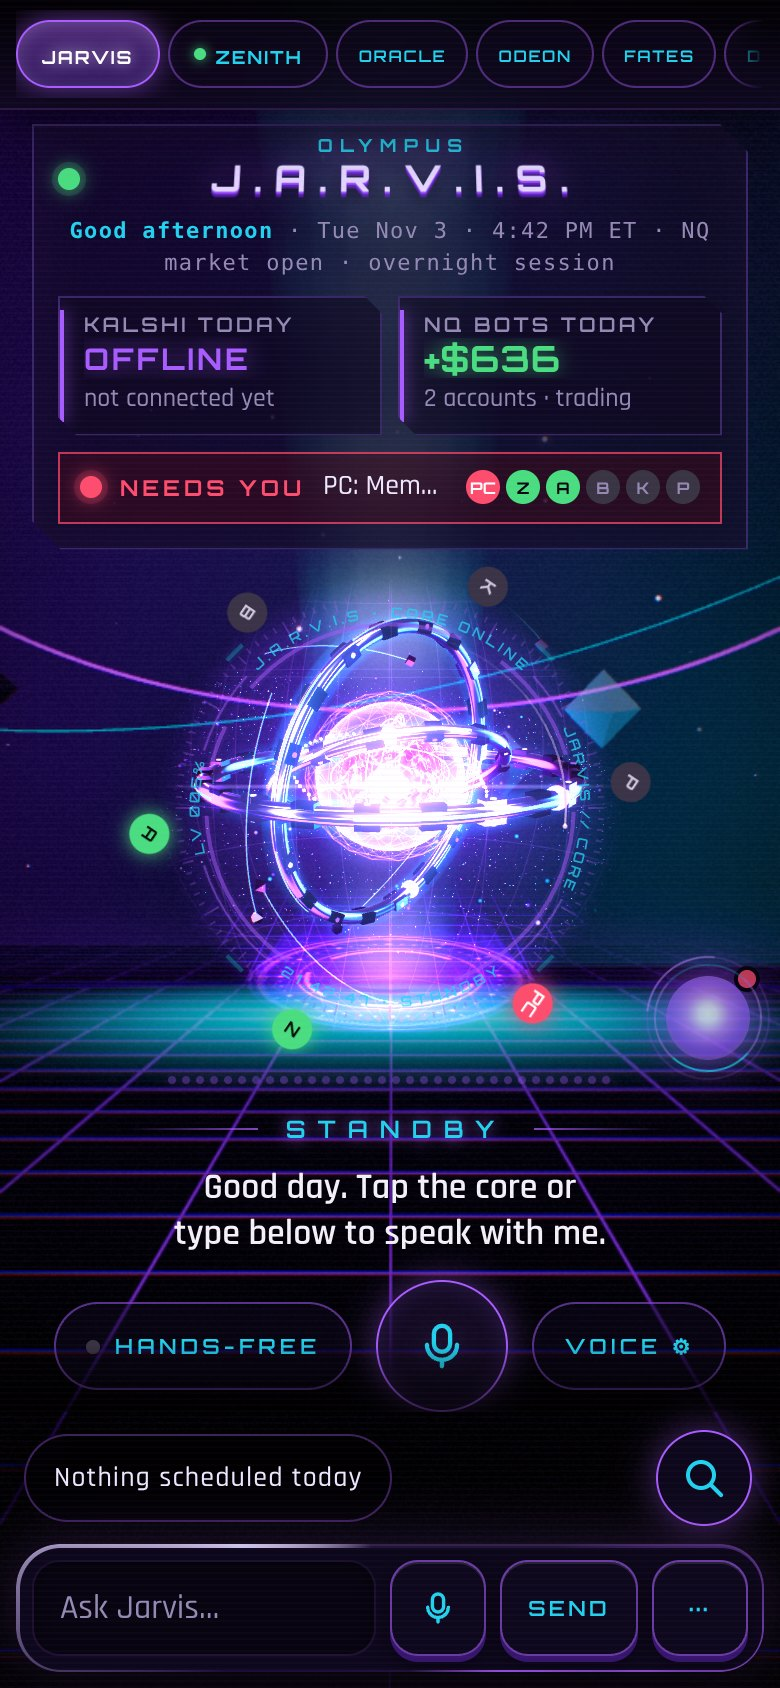
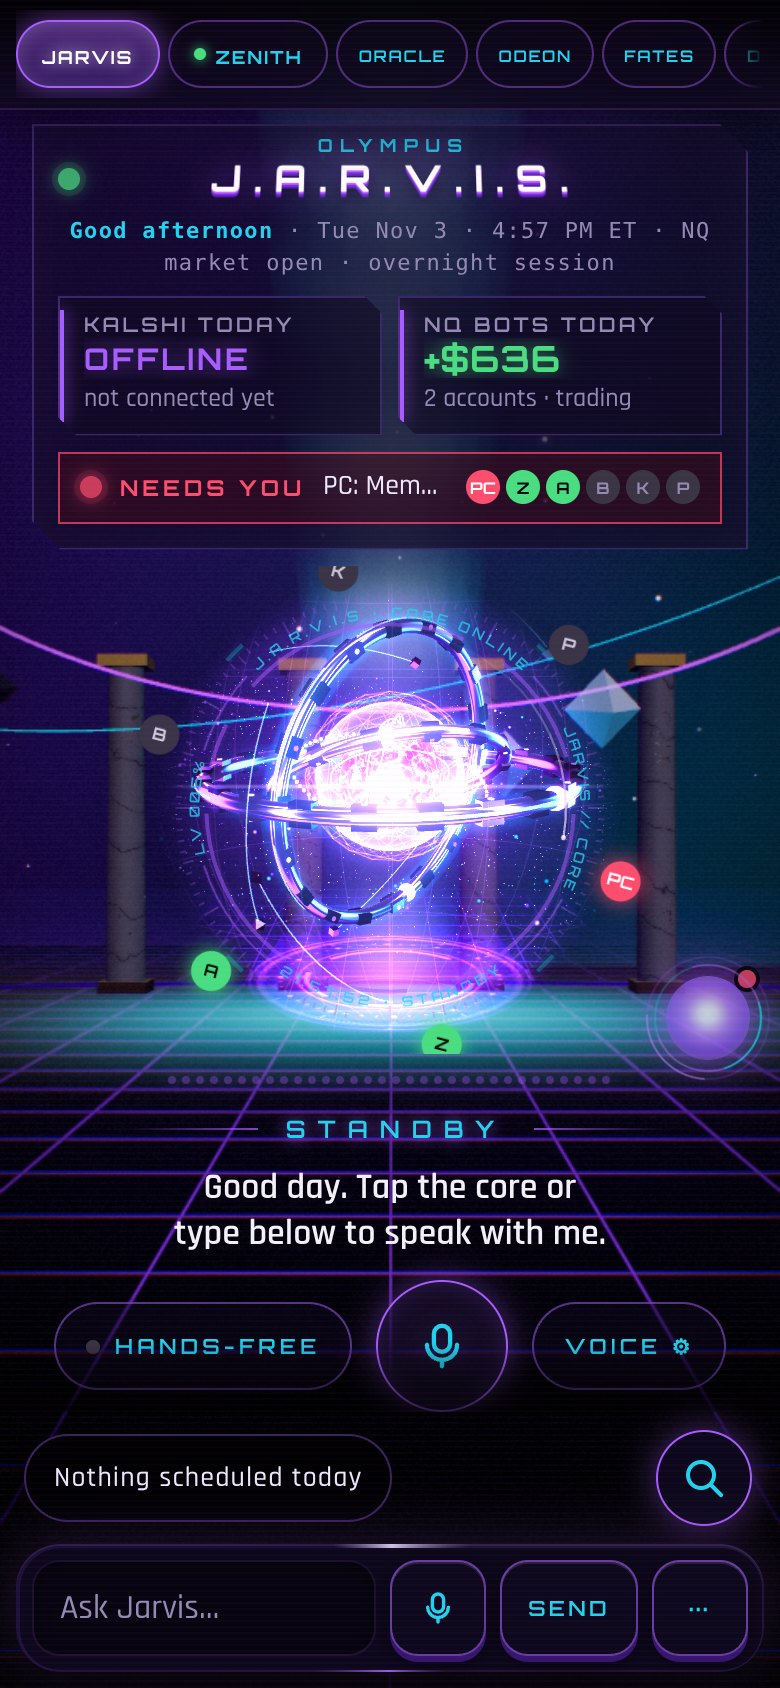
Backdrop: the temple of OLYMPUS on the horizon (marble columns, gold capitals), a violet haze and a key light
Claude-Session: https://claude.ai/code/session_0157vZy9yroQd2RyVxNCbDwo

diff --git a/tools/web_public/jarvis/backdrop.js b/tools/web_public/jarvis/backdrop.js
@@ -1,5 +1,6 @@
 // Jarvis home backdrop (jarvis/backdrop.js, 2026-11-03; docs/OLYMPUS_RENDER.md): the 3D space behind the home screen, on the
-// OLYMPUS render core. A deep nebula and a twinkling starfield, a glossy obsidian floor that reflects the sky with a neon
+// OLYMPUS render core. A deep nebula and a twinkling starfield, the temple of OLYMPUS on the horizon (marble columns, gold
+// capitals, fading into the fog), a glossy obsidian floor that reflects the sky with a neon
 // grid fading into fog, a light shaft where the core floats, two slow halo rings in the sky and drifting glass shards that
 // catch the light. It replaces the flat 2D layers of .bgfx (stars canvas, SVG globe, CSS floor) once its first frame is drawn;
 // without WebGL or the render core, those stay exactly as they were.
@@ -39,7 +40,7 @@ async function mount() {
 
   const scene = new T.Scene(), camera = new T.PerspectiveCamera(58, 1, 0.1, 400);
   camera.position.set(0, 1.5, 10); camera.lookAt(0, 1.6, 0);
-  const fog = new T.FogExp2(0x05040c, 0.034); scene.fog = fog;
+  const fog = new T.FogExp2(0x0b0a24, 0.03); scene.fog = fog;      // a deep violet haze: far things fade into colour, not black
   const K = colours();
   const rc = RC.createRenderer({ canvas: probe, scene, camera, quality: level(), env: 'night', tint: K.c, maxDpr: 1.25, adapt: false, exposure: 0.8,
     theme: null, bloom: { strength: 0.75, radius: 0.7, threshold: 0.82 }, grade: { vignette: 0.42, grain: 0.035, aberration: 0.003 } });
@@ -74,6 +75,20 @@ async function mount() {
   ringB.position.set(0, 7.5, -14); ringB.rotation.set(1.4, 0.2, -0.3); scene.add(ringB);
   const horizon = new T.Mesh(new T.TorusGeometry(40, 0.08, 8, 320), M.neon({ color: K.c2, intensity: 2.5, fog: true }));
   horizon.rotation.x = Math.PI / 2; horizon.position.y = -2.55; scene.add(horizon);
+
+  // the temple of OLYMPUS on the horizon: an arc of polished marble columns with gold capitals, fading into the fog
+  const N = 14, colGeo = new T.CylinderGeometry(0.55, 0.62, 10, 20, 1), capGeo = new T.BoxGeometry(1.5, 0.35, 1.5);
+  const columns = new T.InstancedMesh(colGeo, M.marble({ color: '#e8e4ee', vein: '#5b5470', gold: true, scale: 0.6 }), N);
+  const capitals = new T.InstancedMesh(capGeo, M.metal({ kind: 'gold', roughness: 0.25 }), N * 2);
+  const at = new T.Object3D();
+  for (let i = 0; i < N; i++) {
+    const a = Math.PI * (0.12 + 0.76 * i / (N - 1)), x = Math.cos(a) * 30, z = -Math.sin(a) * 30 - 8;
+    at.position.set(x, 2.4, z); at.rotation.set(0, 0, 0); at.updateMatrix(); columns.setMatrixAt(i, at.matrix);
+    at.position.set(x, 7.55, z); at.updateMatrix(); capitals.setMatrixAt(i * 2, at.matrix);
+    at.position.set(x, -2.4, z); at.updateMatrix(); capitals.setMatrixAt(i * 2 + 1, at.matrix);
+  }
+  scene.add(columns, capitals);
+  const moon = new T.DirectionalLight(0xe4dcff, 2.2); moon.position.set(4, 12, 10); scene.add(moon);   // the temple's key light
 
   // drifting glass shards (env reflections + iridescence: the light catches them as they turn)
   const shardMat = M.glass({ color: '#e9ddff', rim: K.c3, opacity: 0.22 }), chromeMat = M.metal({ kind: 'chrome' });
